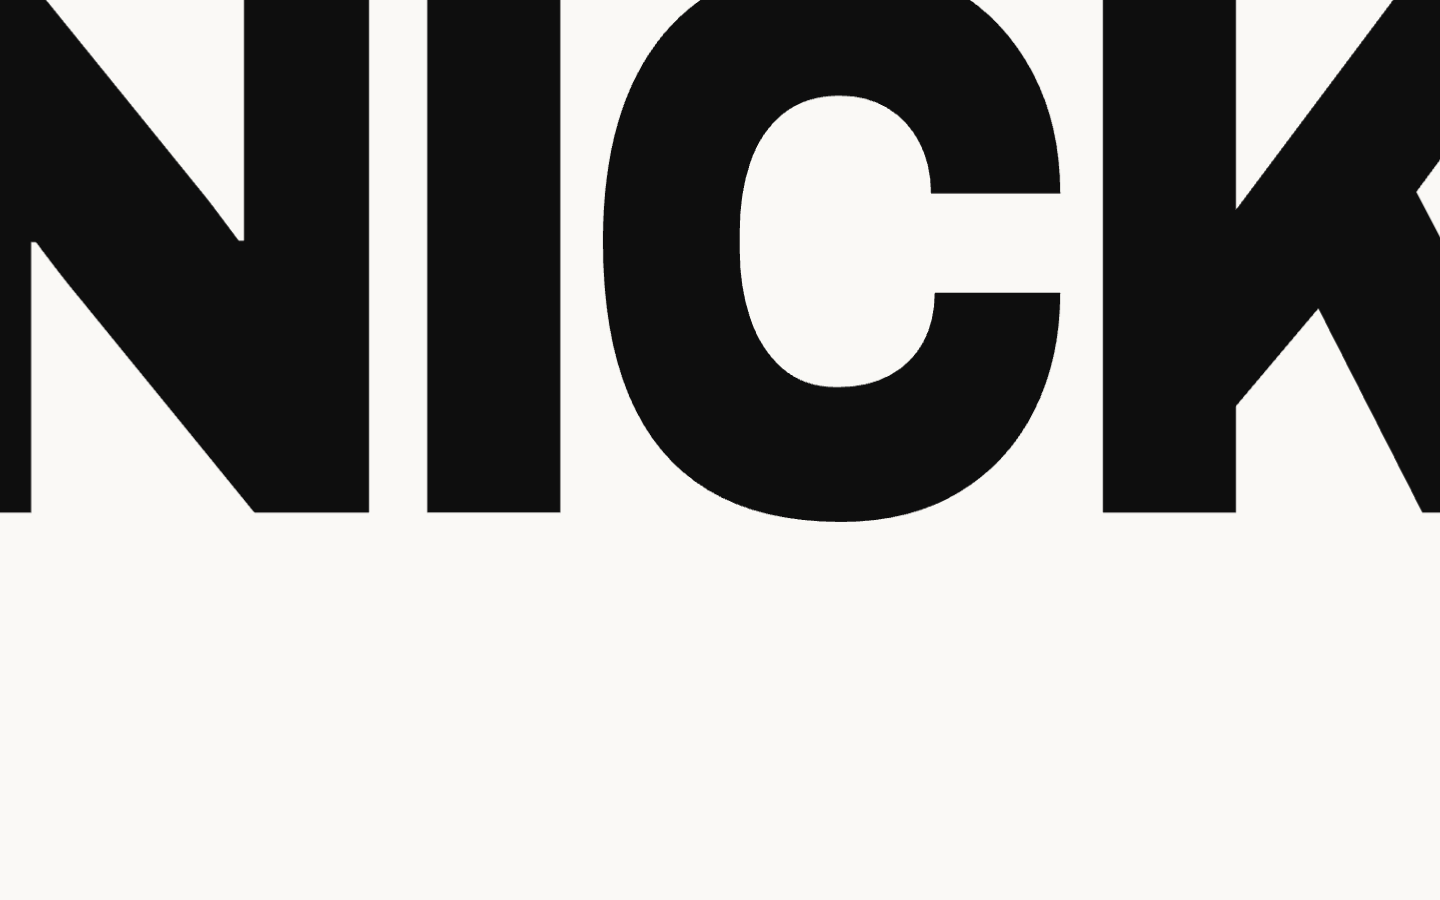
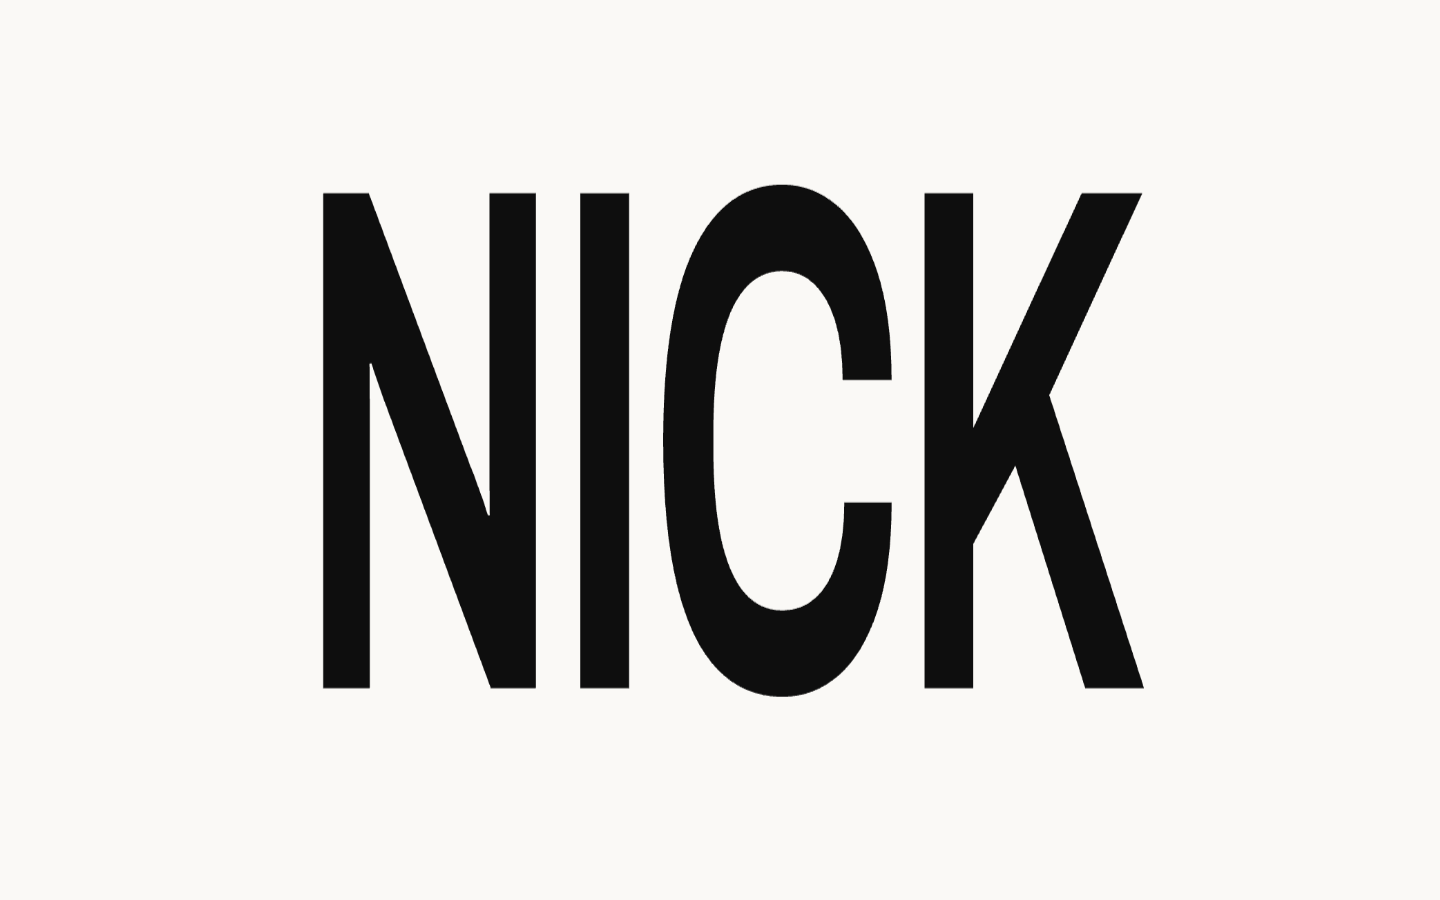
v5.1: center NICK during solo, keep words inside the window
- Measure each word after document.fonts.ready so the fill scaleX uses Archivo's real metrics (not the fallback font); the words were overscaling and bleeding off the edges. FIT margin 0.9 keeps them inside the window.

- Nudge the name block down (~half a line) while NICK is alone so it reads as vertically centered, then settle the block to center as PRATT rises.

diff --git a/src/components/HeroIntro.tsx b/src/components/HeroIntro.tsx
@@ -1,4 +1,4 @@
-import { useEffect, useLayoutEffect, useRef, useState, type CSSProperties } from 'react'
+import { useEffect, useRef, useState, type CSSProperties } from 'react'
 import { useAnimate, useReducedMotion } from 'motion/react'
 
 const EASE = [0.65, 0, 0.35, 1] as const
@@ -6,6 +6,10 @@ const EASE_IN = [0.7, 0, 0.84, 0] as const
 const START = { wght: 100, wdth: 62 }
 const FINAL = { wght: 900, wdth: 125 }
 const FONT_SIZE = '54vh'
+const FIT = 0.9 // keep the words inside the window instead of bleeding off the edges
+// Solo NICK sits one half-line above the block centre; nudge the block down so
+// it reads as vertically centred while it is alone. ~ lineHeight/2 * FONT_SIZE.
+const BLOCK_DOWN = '22vh'
 
 const wordStyle: CSSProperties = {
   fontFamily: 'var(--font-display)',
@@ -30,10 +34,10 @@ const measureStyle: CSSProperties = {
 }
 
 /**
- * The cinematic first-load intro. "NICK" fades in condensed/light, stretches
- * edge-to-edge and transforms via Archivo's wght + wdth axes, then "PRATT"
- * rises and compresses it into a tight two-line block. When it completes the
- * whole stage fades out, revealing the static hero underneath.
+ * The cinematic first-load intro. "NICK" fades in condensed/light while centred,
+ * stretches to fill the window width and transforms via Archivo's wght + wdth
+ * axes, then "PRATT" rises and compresses it into a tight two-line block. When it
+ * completes the whole stage fades out, revealing the static hero underneath.
  * Skipped under prefers-reduced-motion.
  */
 export function HeroIntro({ onDone }: { onDone?: () => void }) {
@@ -41,20 +45,7 @@ export function HeroIntro({ onDone }: { onDone?: () => void }) {
   const [scope, animate] = useAnimate()
   const nickM = useRef<HTMLSpanElement>(null)
   const prattM = useRef<HTMLSpanElement>(null)
-  const [fill, setFill] = useState({ nick: 1.2, pratt: 1.05 })
   const [gone, setGone] = useState<boolean>(reduce ?? false)
-
-  useLayoutEffect(() => {
-    const measure = () => {
-      const vw = window.innerWidth
-      const n = nickM.current?.offsetWidth || vw
-      const p = prattM.current?.offsetWidth || vw
-      setFill({ nick: vw / n, pratt: vw / p })
-    }
-    measure()
-    window.addEventListener('resize', measure)
-    return () => window.removeEventListener('resize', measure)
-  }, [])
 
   useEffect(() => {
     if (reduce) {
@@ -69,19 +60,35 @@ export function HeroIntro({ onDone }: { onDone?: () => void }) {
       onDone?.()
       setGone(true)
     }
-    const guard = window.setTimeout(finish, 3800)
+    const guard = window.setTimeout(finish, 4200)
 
     const run = async () => {
-      animate('.nick', { opacity: 0, scaleX: fill.nick * 0.42, scaleY: 1, ['--wght']: START.wght, ['--wdth']: START.wdth, letterSpacing: '0em' }, { duration: 0 })
-      animate('.pratt', { opacity: 1, scaleX: fill.pratt, scaleY: 1, ['--wght']: FINAL.wght, ['--wdth']: FINAL.wdth, y: '180%' }, { duration: 0 })
+      // Measure each word's true width once the real font is loaded, so the
+      // scaleX that fills the window is accurate (not based on a fallback font).
+      if (document.fonts?.ready) {
+        try {
+          await document.fonts.ready
+        } catch {
+          /* ignore */
+        }
+      }
+      if (cancelled) return
+      const vw = window.innerWidth
+      const fn = (vw * FIT) / (nickM.current?.offsetWidth || vw)
+      const fp = (vw * FIT) / (prattM.current?.offsetWidth || vw)
+
+      animate('.block', { y: BLOCK_DOWN }, { duration: 0 })
+      animate('.nick', { opacity: 0, scaleX: fn * 0.42, scaleY: 1, ['--wght']: START.wght, ['--wdth']: START.wdth, letterSpacing: '0em' }, { duration: 0 })
+      animate('.pratt', { opacity: 1, scaleX: fp, scaleY: 1, ['--wght']: FINAL.wght, ['--wdth']: FINAL.wdth, y: '180%' }, { duration: 0 })
 
       await animate('.nick', { opacity: 1 }, { duration: 0.4, ease: EASE })
       if (cancelled) return
-      await animate('.nick', { scaleX: fill.nick, scaleY: 1.7, ['--wght']: FINAL.wght, ['--wdth']: FINAL.wdth, letterSpacing: '-0.04em' }, { duration: 0.8, ease: EASE })
+      await animate('.nick', { scaleX: fn, scaleY: 1.7, ['--wght']: FINAL.wght, ['--wdth']: FINAL.wdth, letterSpacing: '-0.04em' }, { duration: 0.8, ease: EASE })
       if (cancelled) return
       await new Promise((r) => setTimeout(r, 200))
       if (cancelled) return
       animate('.pratt', { y: '0%' }, { duration: 0.8, ease: EASE })
+      animate('.block', { y: '0vh' }, { duration: 0.8, ease: EASE })
       await animate('.nick', { scaleY: 1 }, { duration: 0.8, ease: EASE })
       if (cancelled) return
       await new Promise((r) => setTimeout(r, 150))
@@ -96,7 +103,7 @@ export function HeroIntro({ onDone }: { onDone?: () => void }) {
       document.body.style.overflow = ''
     }
     // eslint-disable-next-line react-hooks/exhaustive-deps
-  }, [reduce, fill.nick, fill.pratt])
+  }, [reduce])
 
   if (gone) return null
 
@@ -111,18 +118,20 @@ export function HeroIntro({ onDone }: { onDone?: () => void }) {
       <span ref={nickM} style={measureStyle}>Nick</span>
       <span ref={prattM} style={measureStyle}>Pratt</span>
 
-      <span
-        className="nick origin-center will-change-transform"
-        style={{ ...wordStyle, opacity: 0, ['--wght' as string]: START.wght, ['--wdth' as string]: START.wdth }}
-      >
-        Nick
-      </span>
-      <span
-        className="pratt origin-center will-change-transform"
-        style={{ ...wordStyle, ['--wght' as string]: FINAL.wght, ['--wdth' as string]: FINAL.wdth, transform: 'translateY(180%)' }}
-      >
-        Pratt
-      </span>
+      <div className="block flex flex-col items-center will-change-transform" style={{ transform: `translateY(${BLOCK_DOWN})` }}>
+        <span
+          className="nick origin-center will-change-transform"
+          style={{ ...wordStyle, opacity: 0, ['--wght' as string]: START.wght, ['--wdth' as string]: START.wdth }}
+        >
+          Nick
+        </span>
+        <span
+          className="pratt origin-center will-change-transform"
+          style={{ ...wordStyle, ['--wght' as string]: FINAL.wght, ['--wdth' as string]: FINAL.wdth, transform: 'translateY(180%)' }}
+        >
+          Pratt
+        </span>
+      </div>
     </div>
   )
 }